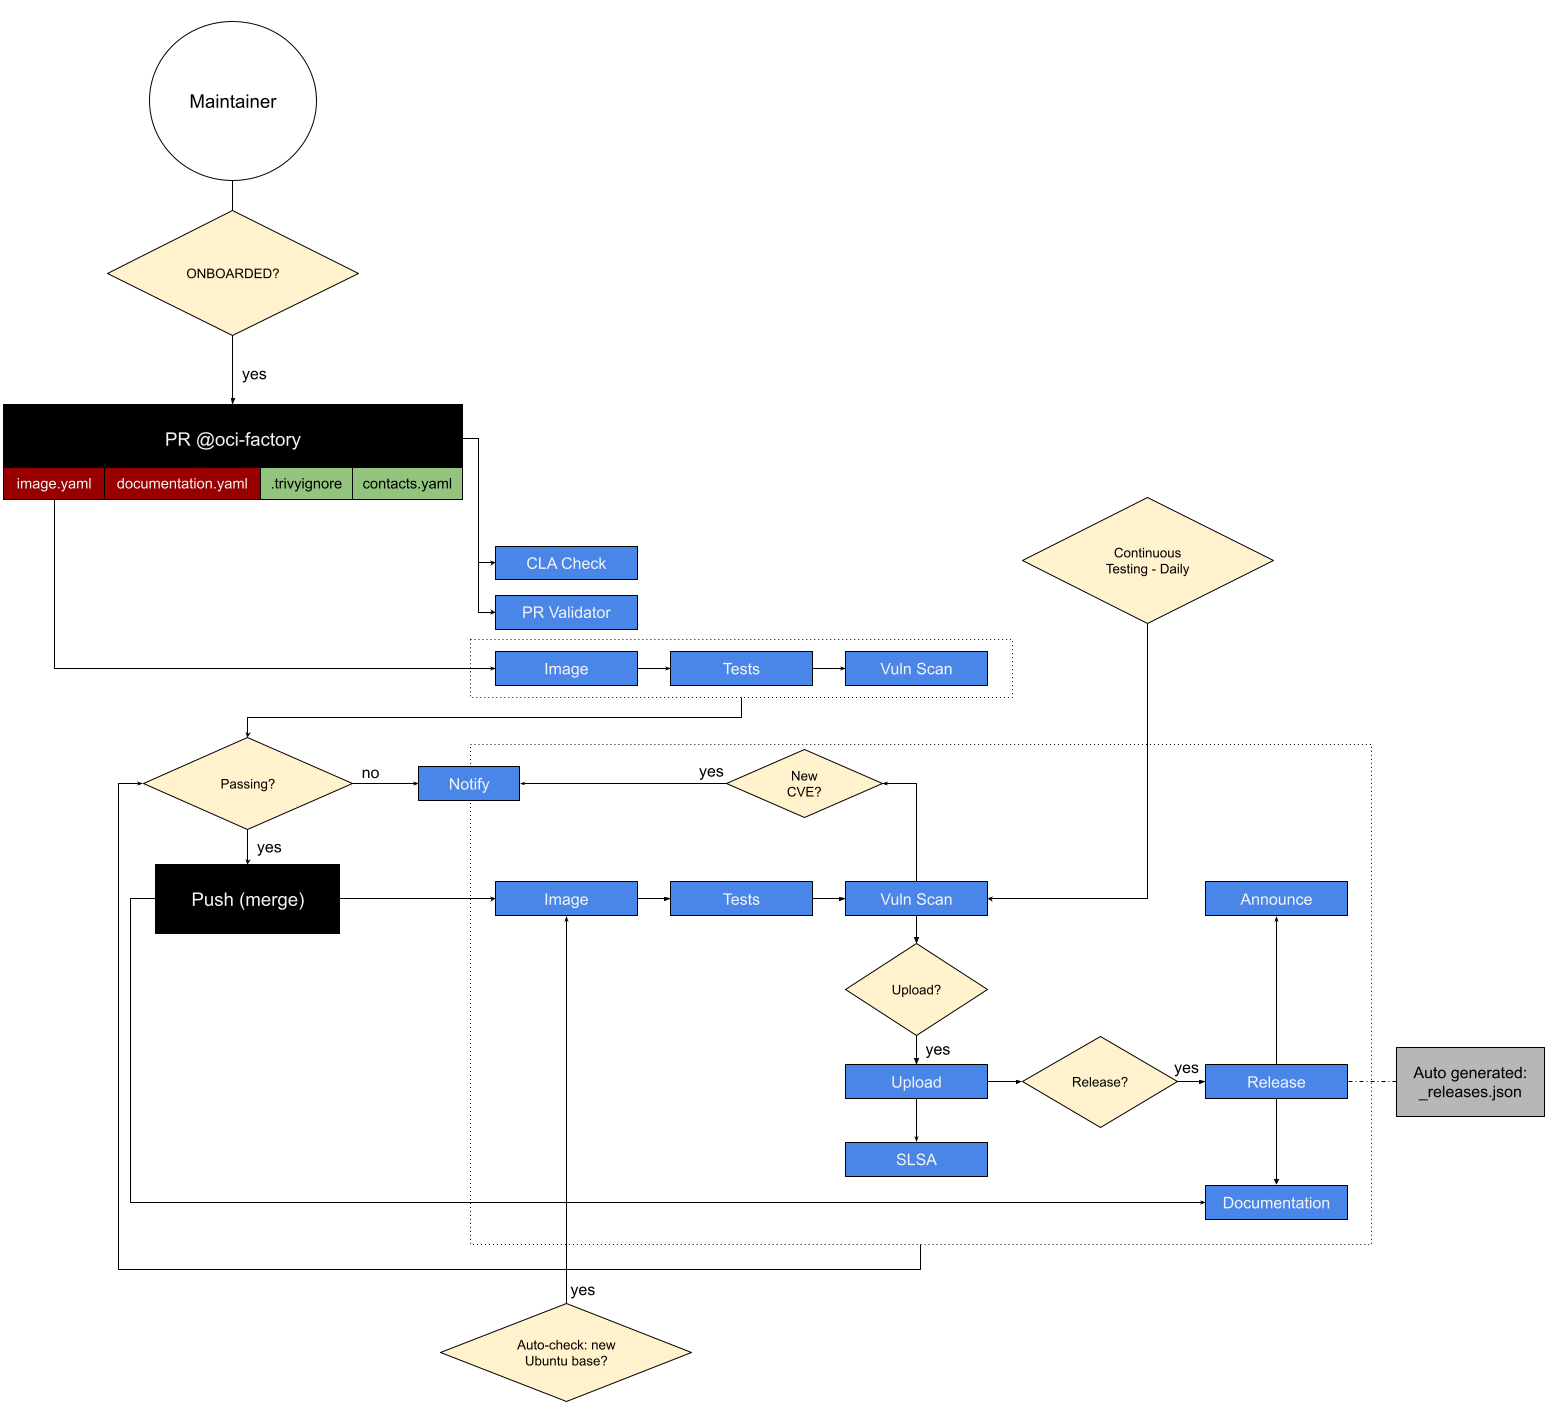
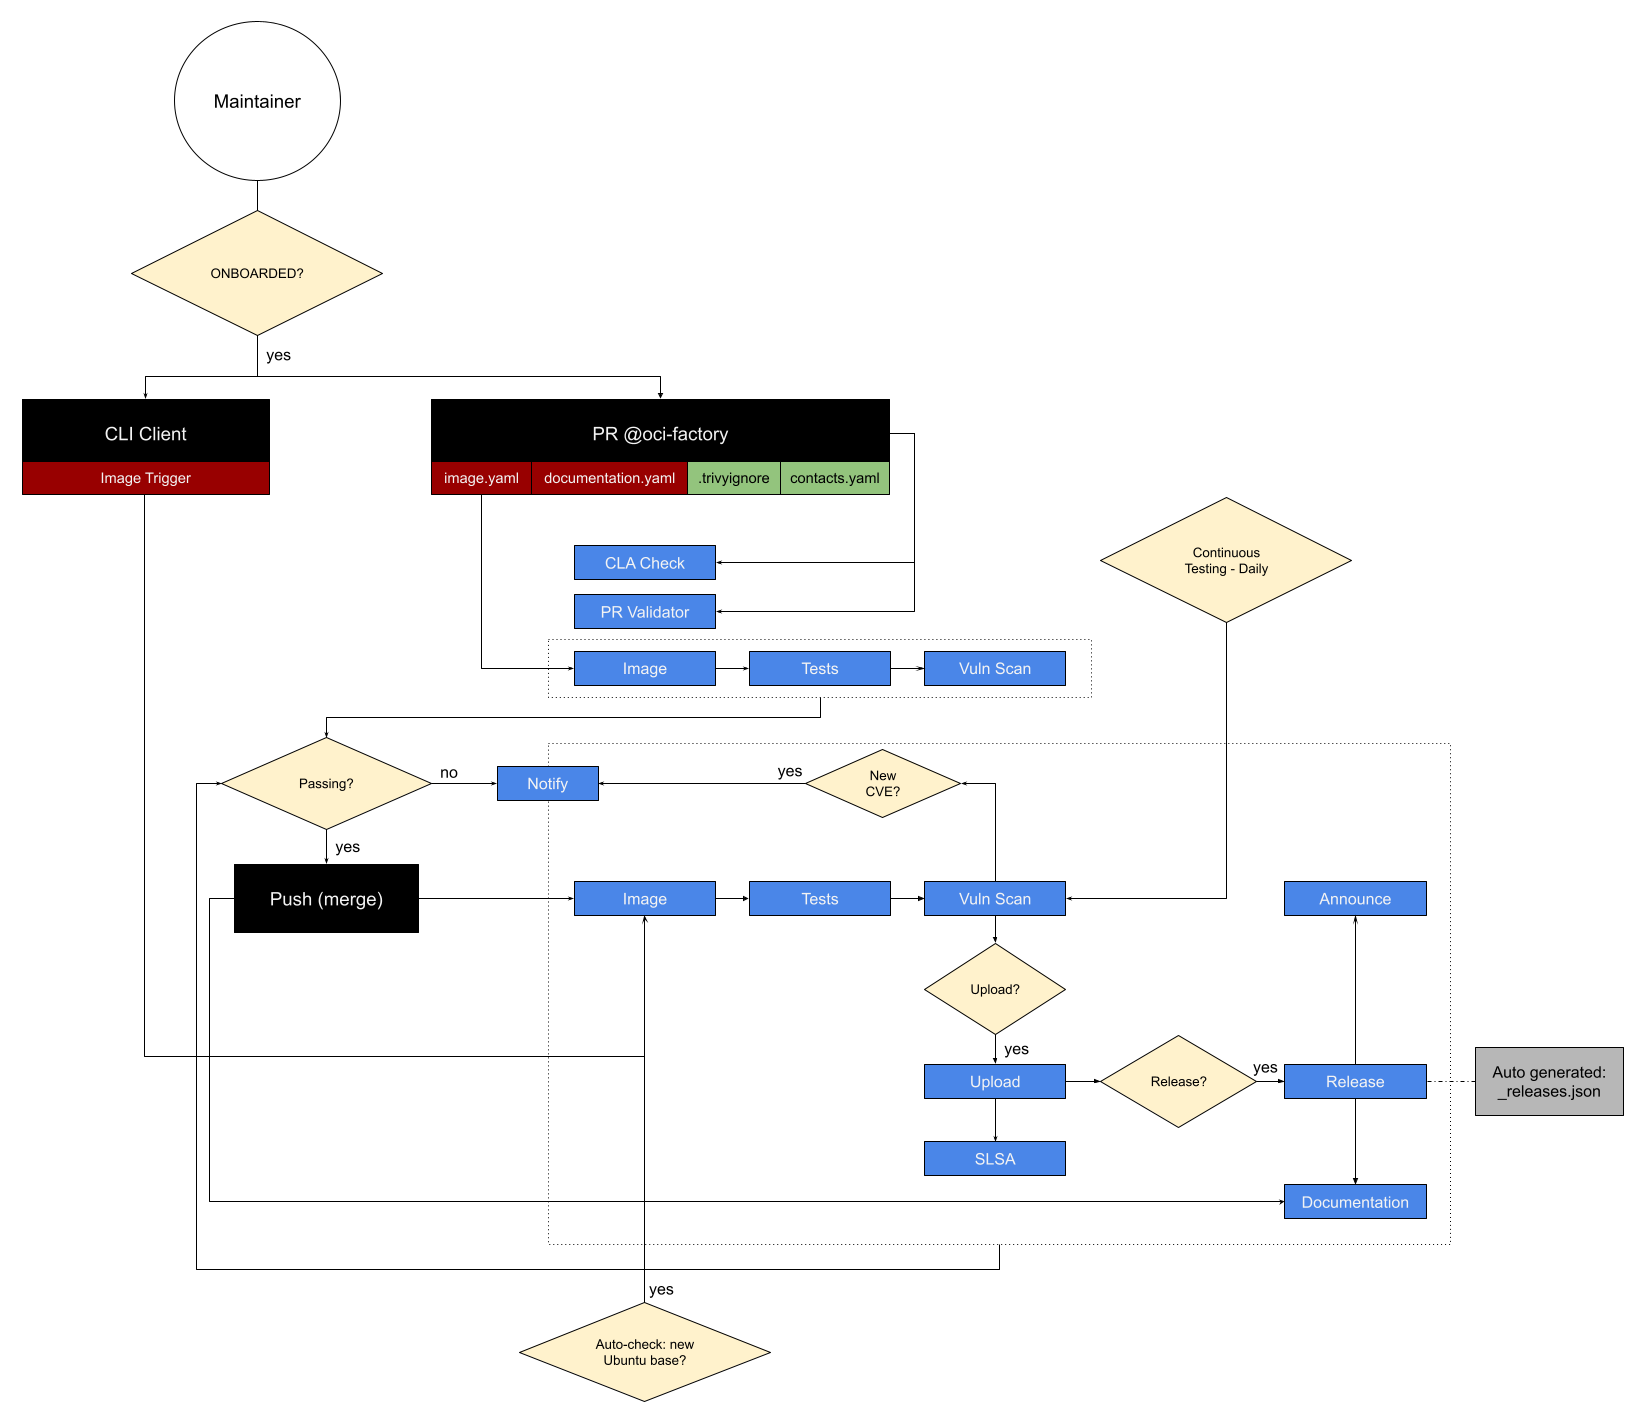
doc(cli-client): add cli client in root README

diff --git a/README.md b/README.md
@@ -70,7 +70,11 @@ Pull Requests 🚀.
 
 ### As a **Maintainer** ⛏ 🪨
 
-Maintainers shall use Pull Requests (PRs) as an interface for asking the OCI
+There are two ways to use the OCI Factory to build the images.
+
+#### 1. With Pull Requests
+
+Maintainers can use Pull Requests (PRs) as an interface for asking the OCI
 Factory to build their images. Here's what you should do and know before you
 make your first PR as a Maintainer:
 
@@ -83,6 +87,23 @@ to build multiple versions of the same image with a single PR, but **not**
 multiple images;
    - that means one PR can only propose changes to
 [Maintainer files](#maintainer-files) within a single `oci` folder.
+
+#### 2. With the CLI Client
+
+Maintainers can use the OCI Factory's CLI Client to interact with the OCI
+Factory. The CLI Client is a Go module at [src/cli-client](src/cli-client).
+
+Here's what you should do and know before you use the CLI Client to trigger
+the first build of your image:
+
+1. you are onboard as a Maintainer, and have received your token to the CLI
+Client;
+2. each use of the CLI Client **must** only target one version of an OCI image,
+i.e. you can ask the OCI Factory to build one version of the image, upload and
+release it to GHCR, Docker Hub, and ECR with different tracks, risks and EOL with
+a single command, but **not** multiple versions of the same image.
+
+Further documentation regarding the CLI Client can be found in [src/cli-client/README.md]()
 
 Refer to the diagram below to understand the oci-factory workflow:
 ![OCI Factory Workflow](assets/img/oci-factory-workflow.png)
